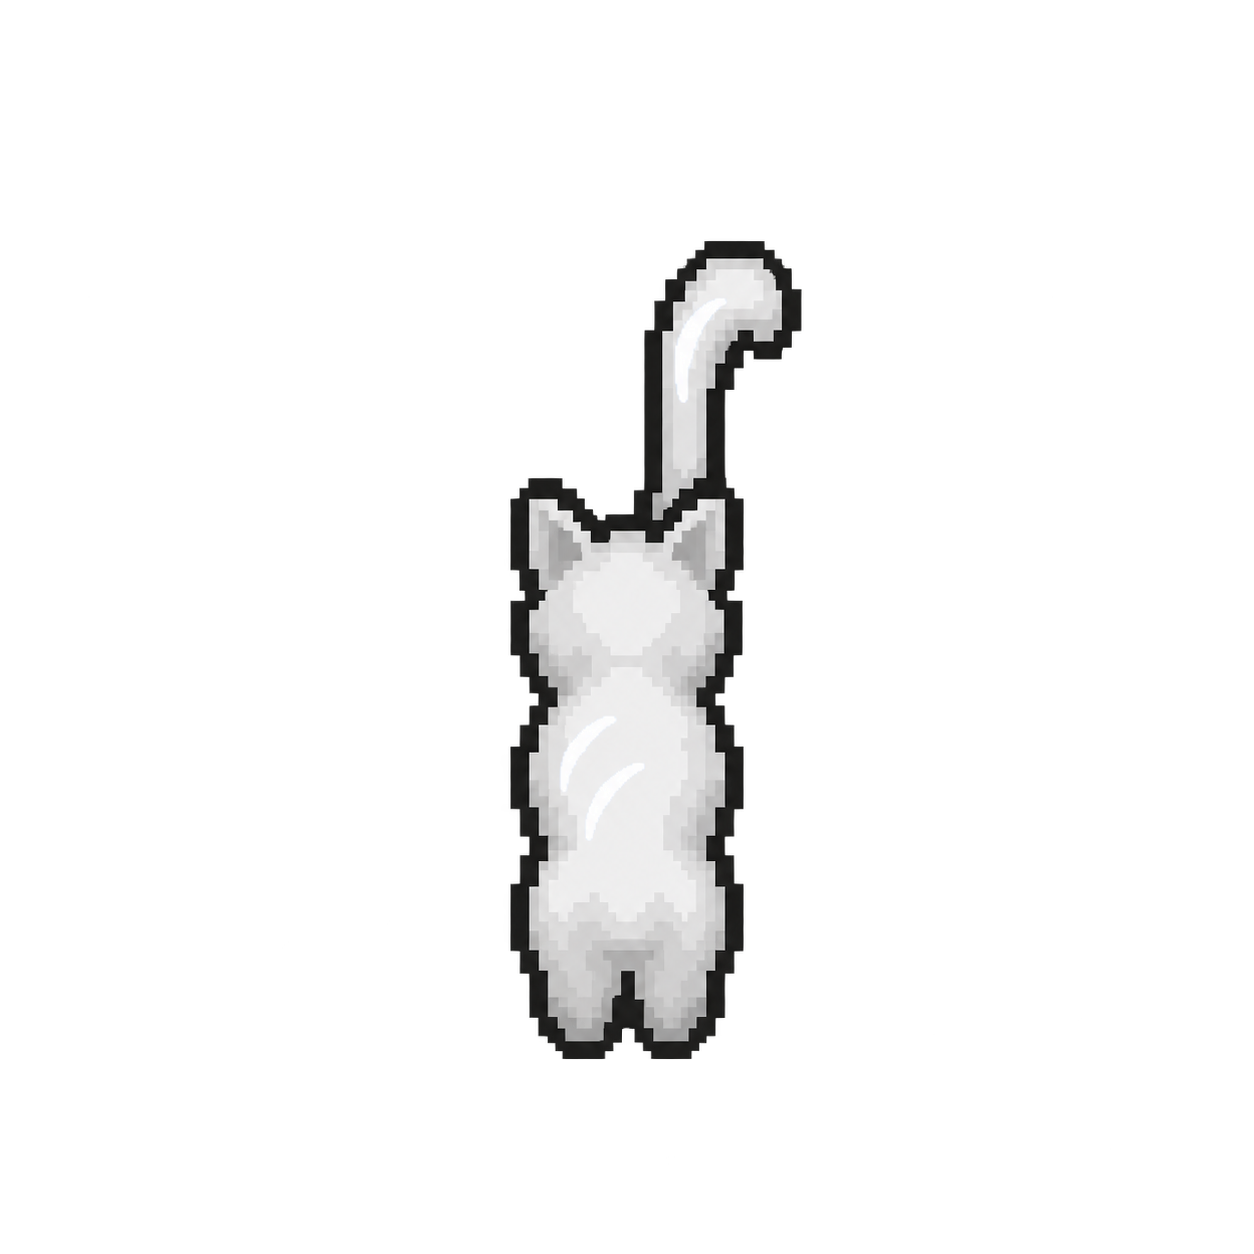
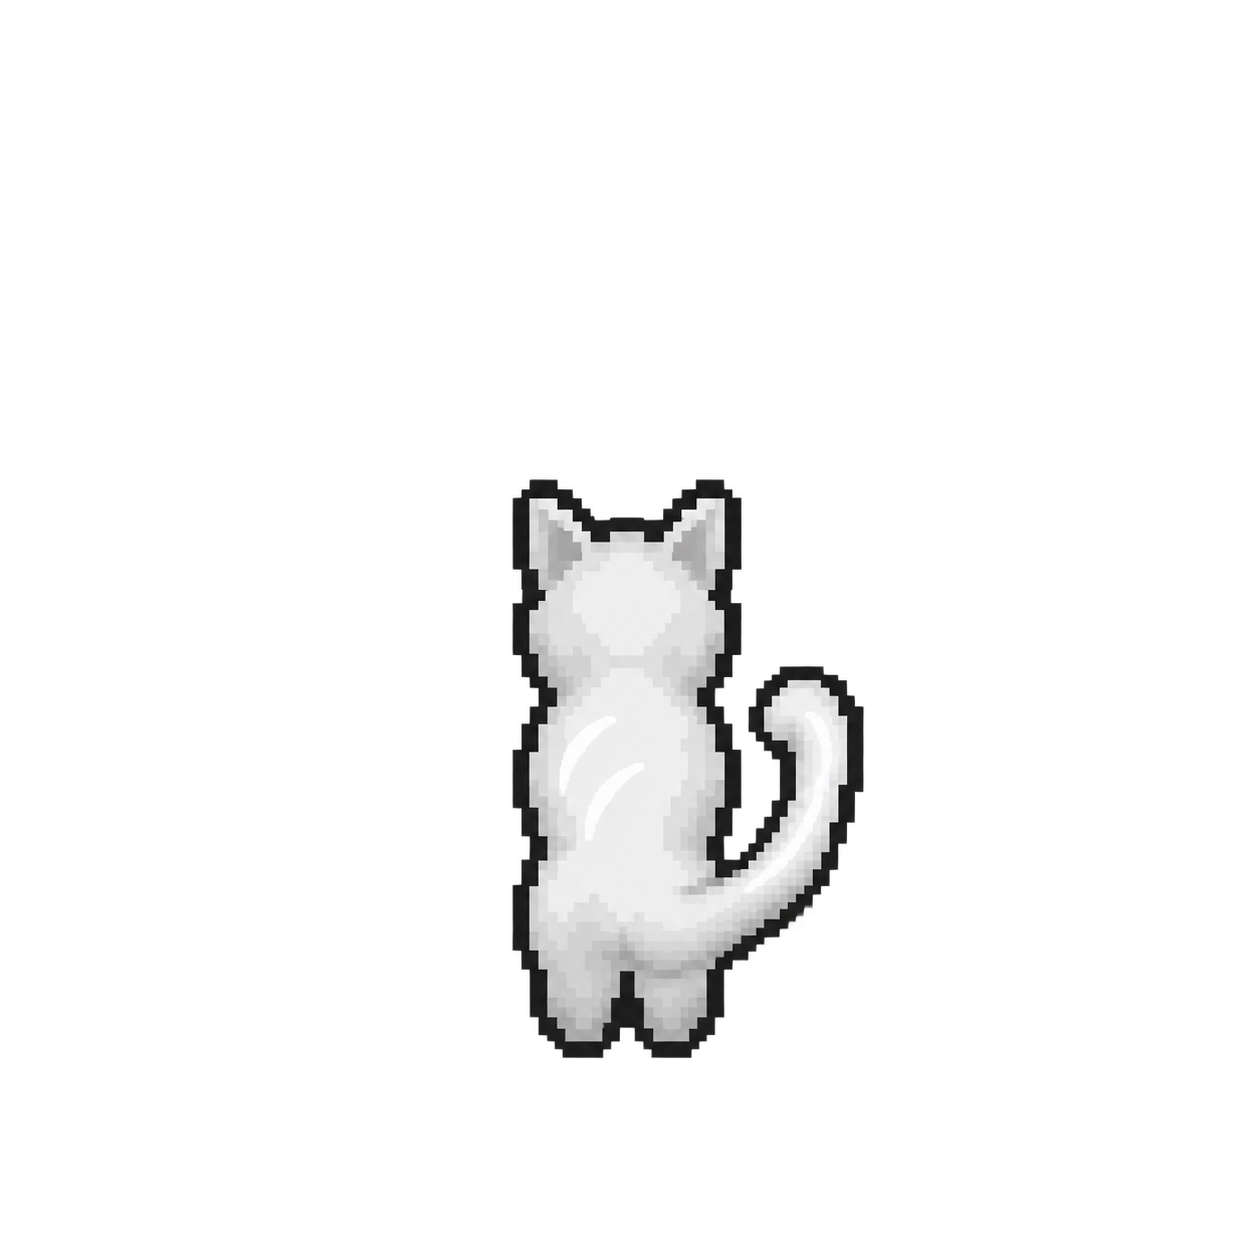
Correct Ctesiphus north-view tail attachment at the rump

diff --git a/art/ctesiphus/preview.html b/art/ctesiphus/preview.html
@@ -1,1 +1,1 @@
-<!doctype html><html lang="en"><meta charset="utf-8"><meta name="viewport" content="width=device-width,initial-scale=1"><title>Ctesiphus directional art review</title><style>:root{color-scheme:dark;font-family:system-ui;background:#102623;color:#d8e5dc}body{max-width:1000px;margin:auto;padding:24px}h1{font-weight:500}p{line-height:1.6;max-width:80ch}.samples{display:flex;flex-wrap:wrap;gap:24px;align-items:end}section{border-top:1px solid #4c6560;padding:12px 0 28px}.samples div{width:150px;min-height:110px}.samples span{display:block;color:#b7cac0;font-size:12px;margin-bottom:12px}svg{display:block;overflow:visible}a{color:#c8dda3}a:focus-visible{outline:2px solid #fff}</style><h1>Ctesiphus: directional art review</h1><p>Generated neutral albedo sprites using actual RimWorld cat references, with Qud identity resolved from installed definitions. The magenta samples use a browser color multiply for illustration. These are artwork previews, not native game captures. Display height is normalized to each silhouette; native pivots and physical scale remain unverified.</p><svg width="0" height="0" aria-hidden="true"><defs><filter id="qud-tint" color-interpolation-filters="sRGB"><feColorMatrix type="matrix" values=".69411765 0 0 0 0 0 .32941176 0 0 0 0 0 .81176471 0 0 0 0 0 1 0"/></filter></defs></svg><section><h2>South</h2><div class="samples"><div><span>32px / albedo</span><svg role="img" aria-label="south albedo at 32 pixels" width="9.47" height="32" viewBox="437 269 259 875"><image href="south-albedo.png" width="1110" height="1417"/></svg></div><div><span>32px / native-tint</span><svg role="img" aria-label="south native-tint at 32 pixels" width="9.47" height="32" viewBox="437 269 259 875"><image href="south-albedo.png" width="1110" height="1417" filter="url(#qud-tint)"/></svg></div><div><span>64px / albedo</span><svg role="img" aria-label="south albedo at 64 pixels" width="18.94" height="64" viewBox="437 269 259 875"><image href="south-albedo.png" width="1110" height="1417"/></svg></div><div><span>64px / native-tint</span><svg role="img" aria-label="south native-tint at 64 pixels" width="18.94" height="64" viewBox="437 269 259 875"><image href="south-albedo.png" width="1110" height="1417" filter="url(#qud-tint)"/></svg></div></div></section><section><h2>East</h2><div class="samples"><div><span>32px / albedo</span><svg role="img" aria-label="east albedo at 32 pixels" width="41.10" height="32" viewBox="286 376 727 566"><image href="east-albedo.png" width="1254" height="1254"/></svg></div><div><span>32px / native-tint</span><svg role="img" aria-label="east native-tint at 32 pixels" width="41.10" height="32" viewBox="286 376 727 566"><image href="east-albedo.png" width="1254" height="1254" filter="url(#qud-tint)"/></svg></div><div><span>64px / albedo</span><svg role="img" aria-label="east albedo at 64 pixels" width="82.20" height="64" viewBox="286 376 727 566"><image href="east-albedo.png" width="1254" height="1254"/></svg></div><div><span>64px / native-tint</span><svg role="img" aria-label="east native-tint at 64 pixels" width="82.20" height="64" viewBox="286 376 727 566"><image href="east-albedo.png" width="1254" height="1254" filter="url(#qud-tint)"/></svg></div></div></section><section><h2>North</h2><div class="samples"><div><span>32px / albedo</span><svg role="img" aria-label="north albedo at 32 pixels" width="11.42" height="32" viewBox="510 241 292 818"><image href="north-albedo.png" width="1254" height="1254"/></svg></div><div><span>32px / native-tint</span><svg role="img" aria-label="north native-tint at 32 pixels" width="11.42" height="32" viewBox="510 241 292 818"><image href="north-albedo.png" width="1254" height="1254" filter="url(#qud-tint)"/></svg></div><div><span>64px / albedo</span><svg role="img" aria-label="north albedo at 64 pixels" width="22.85" height="64" viewBox="510 241 292 818"><image href="north-albedo.png" width="1254" height="1254"/></svg></div><div><span>64px / native-tint</span><svg role="img" aria-label="north native-tint at 64 pixels" width="22.85" height="64" viewBox="510 241 292 818"><image href="north-albedo.png" width="1254" height="1254" filter="url(#qud-tint)"/></svg></div></div></section><p>West may mirror east for this subject. Canvas and contact-point differences remain explicit in the manifest. Work is paused at the user's request before native integration or another NPC.</p><p><a href="brief.json">Source-backed brief</a> / <a href="generation-prompts.json">Exact generation prompts</a> / <a href="../manifest.json">Asset hashes and bounds</a> / <a href="../../README.md">Project README</a></p></html>
+<!doctype html><html lang="en"><meta charset="utf-8"><meta name="viewport" content="width=device-width,initial-scale=1"><title>Ctesiphus directional art review</title><style>:root{color-scheme:dark;font-family:system-ui;background:#102623;color:#d8e5dc}body{max-width:1000px;margin:auto;padding:24px}h1{font-weight:500}p{line-height:1.6;max-width:80ch}.samples{display:flex;flex-wrap:wrap;gap:24px;align-items:end}section{border-top:1px solid #4c6560;padding:12px 0 28px}.samples div{width:150px;min-height:110px}.samples span{display:block;color:#b7cac0;font-size:12px;margin-bottom:12px}svg{display:block;overflow:visible}a{color:#c8dda3}a:focus-visible{outline:2px solid #fff}</style><h1>Ctesiphus: directional art review</h1><p>Generated neutral albedo sprites using actual RimWorld cat references, with Qud identity resolved from installed definitions. The magenta samples use a browser color multiply for illustration. These are artwork previews, not native game captures. Display height is normalized to each silhouette; native pivots and physical scale remain unverified.</p><svg width="0" height="0" aria-hidden="true"><defs><filter id="qud-tint" color-interpolation-filters="sRGB"><feColorMatrix type="matrix" values=".69411765 0 0 0 0 0 .32941176 0 0 0 0 0 .81176471 0 0 0 0 0 1 0"/></filter></defs></svg><section><h2>South</h2><div class="samples"><div><span>32px / albedo</span><svg role="img" aria-label="south albedo at 32 pixels" width="9.47" height="32" viewBox="437 269 259 875"><image href="south-albedo.png" width="1110" height="1417"/></svg></div><div><span>32px / native-tint</span><svg role="img" aria-label="south native-tint at 32 pixels" width="9.47" height="32" viewBox="437 269 259 875"><image href="south-albedo.png" width="1110" height="1417" filter="url(#qud-tint)"/></svg></div><div><span>64px / albedo</span><svg role="img" aria-label="south albedo at 64 pixels" width="18.94" height="64" viewBox="437 269 259 875"><image href="south-albedo.png" width="1110" height="1417"/></svg></div><div><span>64px / native-tint</span><svg role="img" aria-label="south native-tint at 64 pixels" width="18.94" height="64" viewBox="437 269 259 875"><image href="south-albedo.png" width="1110" height="1417" filter="url(#qud-tint)"/></svg></div></div></section><section><h2>East</h2><div class="samples"><div><span>32px / albedo</span><svg role="img" aria-label="east albedo at 32 pixels" width="41.10" height="32" viewBox="286 376 727 566"><image href="east-albedo.png" width="1254" height="1254"/></svg></div><div><span>32px / native-tint</span><svg role="img" aria-label="east native-tint at 32 pixels" width="41.10" height="32" viewBox="286 376 727 566"><image href="east-albedo.png" width="1254" height="1254" filter="url(#qud-tint)"/></svg></div><div><span>64px / albedo</span><svg role="img" aria-label="east albedo at 64 pixels" width="82.20" height="64" viewBox="286 376 727 566"><image href="east-albedo.png" width="1254" height="1254"/></svg></div><div><span>64px / native-tint</span><svg role="img" aria-label="east native-tint at 64 pixels" width="82.20" height="64" viewBox="286 376 727 566"><image href="east-albedo.png" width="1254" height="1254" filter="url(#qud-tint)"/></svg></div></div></section><section><h2>North</h2><div class="samples"><div><span>32px / albedo</span><svg role="img" aria-label="north albedo at 32 pixels" width="19.43" height="32" viewBox="513 480 351 578"><image href="north-albedo.png" width="1254" height="1254"/></svg></div><div><span>32px / native-tint</span><svg role="img" aria-label="north native-tint at 32 pixels" width="19.43" height="32" viewBox="513 480 351 578"><image href="north-albedo.png" width="1254" height="1254" filter="url(#qud-tint)"/></svg></div><div><span>64px / albedo</span><svg role="img" aria-label="north albedo at 64 pixels" width="38.87" height="64" viewBox="513 480 351 578"><image href="north-albedo.png" width="1254" height="1254"/></svg></div><div><span>64px / native-tint</span><svg role="img" aria-label="north native-tint at 64 pixels" width="38.87" height="64" viewBox="513 480 351 578"><image href="north-albedo.png" width="1254" height="1254" filter="url(#qud-tint)"/></svg></div></div></section><p>West may mirror east for this subject. Canvas and contact-point differences remain explicit in the manifest. Work is paused at the user's request before native integration or another NPC.</p><p><a href="brief.json">Source-backed brief</a> / <a href="generation-prompts.json">Exact generation prompts</a> / <a href="../manifest.json">Asset hashes and bounds</a> / <a href="../../README.md">Project README</a></p></html>
